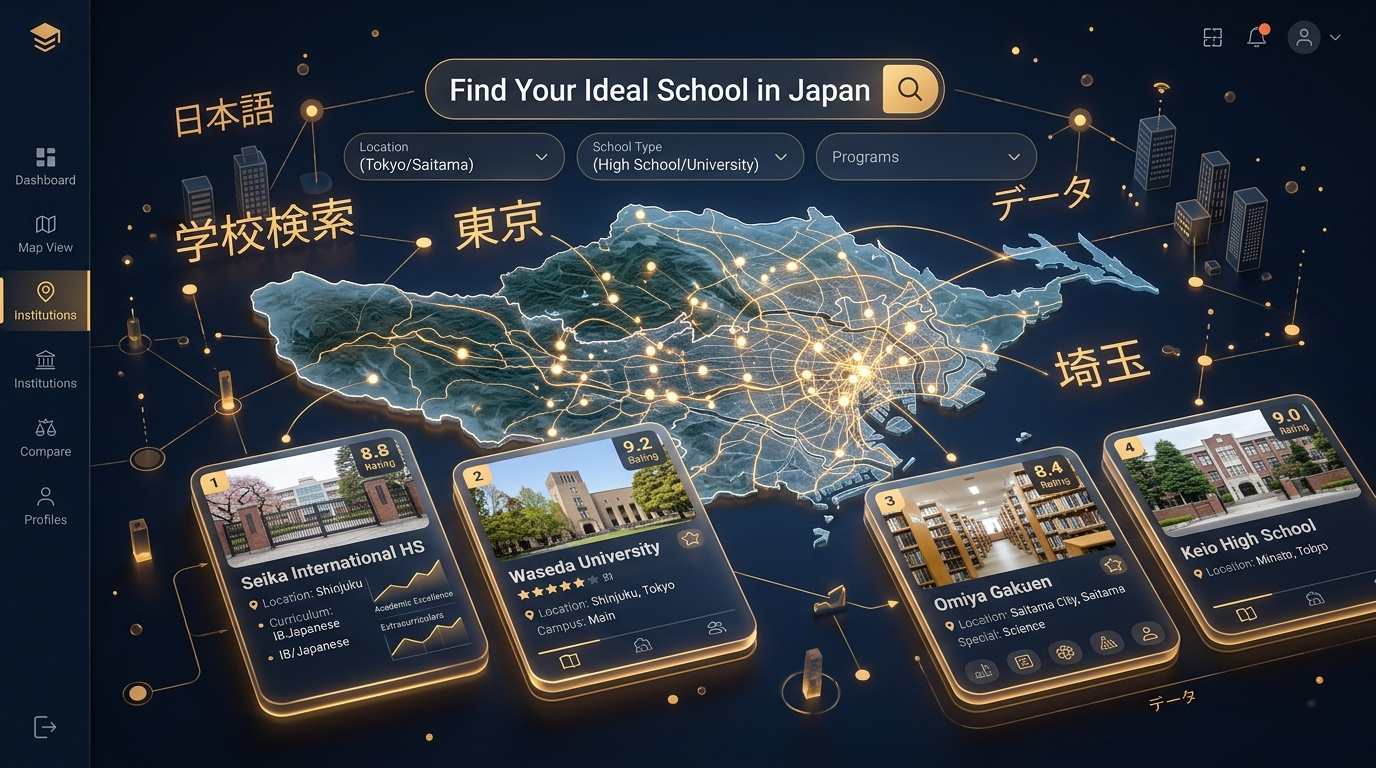
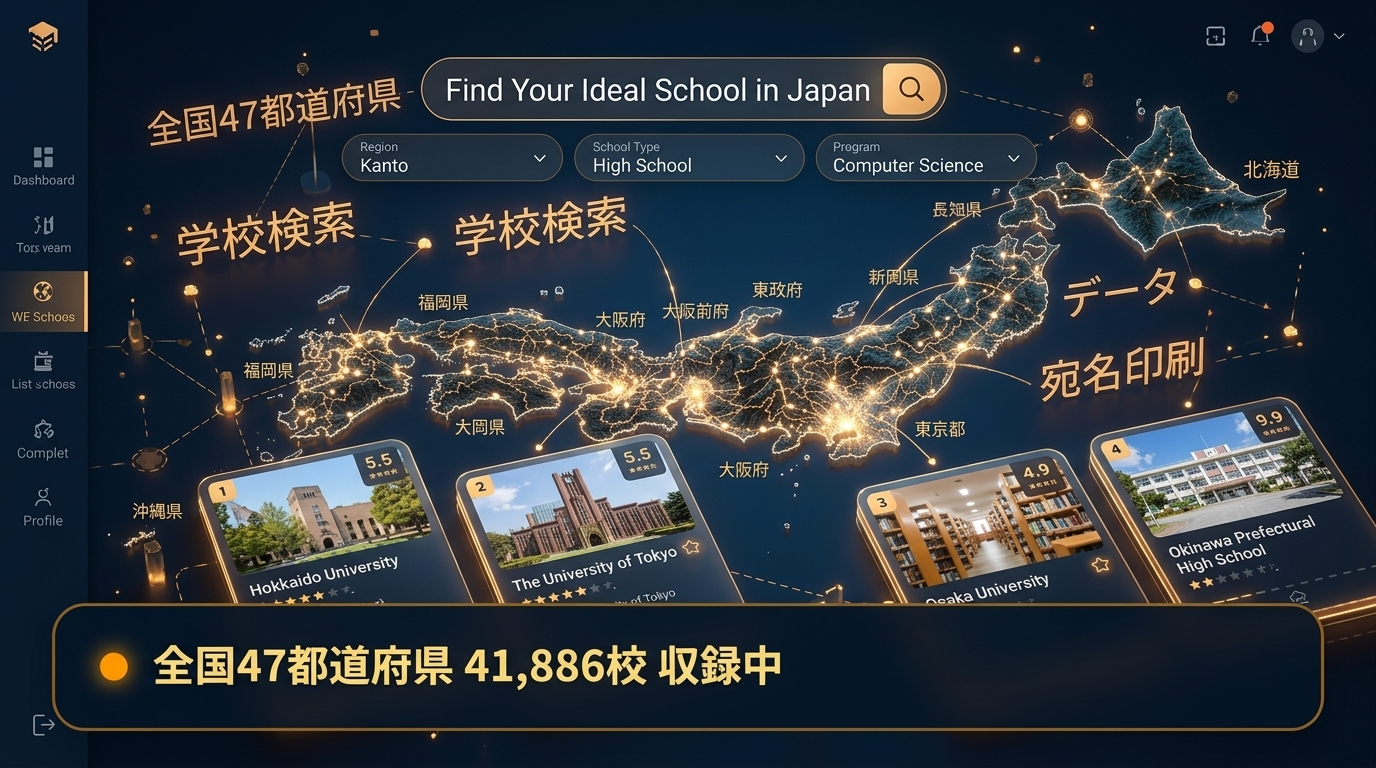
feat: Refine prefecture card design and update SCENE 04 illustration to nationwide map visual (#275)

diff --git a/assets/css/school-database.css b/assets/css/school-database.css
@@ -602,14 +602,15 @@ h3.region-header {
 
 .pref-card {
   background: #ffffff;
-  border: 2px solid rgba(7, 27, 54, 0.08);
+  border: 1px solid rgba(7, 27, 54, 0.1);
+  border-top: 4px solid var(--gold, #c5a059);
   border-radius: 16px;
-  padding: 22px 22px 20px;
-  box-shadow: 0 10px 30px rgba(7, 27, 54, 0.05);
+  padding: 18px 20px 20px;
+  box-shadow: 0 4px 20px rgba(7, 27, 54, 0.06);
   display: flex;
   flex-direction: column;
   box-sizing: border-box;
-  transition: all 0.3s ease;
+  transition: transform 0.25s ease, box-shadow 0.25s ease, border-color 0.25s ease, background-color 0.25s ease;
   position: relative;
   overflow: hidden;
   /* .pref-card はカード全体を<a>にする都道府県版で使われるため、
@@ -655,63 +656,80 @@ h3.region-header {
 }
 
 .pref-card.active-card {
-  border-color: var(--gold, #c5a059);
-  /* 下部ボタンを廃止しカード全体がリンクになったため、右下の矢印で
-     クリック可能であることを補助的に示す（hover/focusで濃く表示）。 */
+  border-color: rgba(7, 27, 54, 0.12);
+  border-top-color: var(--gold, #c5a059);
   padding-bottom: 34px;
 }
 
 .pref-card:hover {
-  transform: translateY(-3px);
-  box-shadow: 0 16px 40px rgba(7, 27, 54, 0.1);
+  transform: translateY(-4px);
+  box-shadow: 0 16px 36px rgba(7, 27, 54, 0.12), 0 0 0 1px rgba(197, 160, 89, 0.3);
   border-color: var(--gold, #c5a059);
-  background: #fffdf7;
+  background: #ffffff;
 }
 
 .pref-card:focus-within {
-  transform: translateY(-3px);
-  box-shadow: 0 16px 40px rgba(7, 27, 54, 0.1);
+  transform: translateY(-4px);
+  box-shadow: 0 16px 36px rgba(7, 27, 54, 0.12), 0 0 0 1px rgba(197, 160, 89, 0.3);
   border-color: var(--gold, #c5a059);
-  background: #fffdf7;
+  background: #ffffff;
 }
 
 /* カード全体がリンクの場合のキーボードフォーカス表示 */
 .pref-card:focus-visible {
   outline: 3px solid var(--gold, #c5a059);
   outline-offset: 3px;
-  transform: translateY(-3px);
-  box-shadow: 0 16px 40px rgba(7, 27, 54, 0.1);
+  transform: translateY(-4px);
+  box-shadow: 0 16px 36px rgba(7, 27, 54, 0.12);
   border-color: var(--gold, #c5a059);
 }
 
 .pref-card.active-card::after {
   content: "→";
   position: absolute;
-  right: 18px;
+  right: 16px;
   bottom: 12px;
-  font-size: 18px;
+  font-size: 15px;
   font-weight: 700;
-  color: var(--gold, #c5a059);
-  opacity: 0.55;
-  transition: opacity 0.2s ease, transform 0.2s ease;
+  color: var(--navy, #0c1b33);
+  background: #f1f5f9;
+  width: 26px;
+  height: 26px;
+  border-radius: 50%;
+  display: flex;
+  align-items: center;
+  justify-content: center;
+  border: 1px solid rgba(12, 27, 51, 0.1);
+  opacity: 0.75;
+  transition: opacity 0.2s ease, transform 0.2s ease, background-color 0.2s ease, color 0.2s ease;
 }
 
 .pref-card.active-card:hover::after,
 .pref-card.active-card:focus-visible::after,
 .pref-card.active-card:focus-within::after {
   opacity: 1;
-  transform: translateX(3px);
+  background: var(--gold, #c5a059);
+  color: #ffffff;
+  border-color: var(--gold, #c5a059);
+  transform: translateX(2px);
 }
 
 .pref-card-header {
   display: flex;
   justify-content: flex-end;
   align-items: center;
-  /* 「NEW」バッジ削除により年度表示のみになったため、下マージンを
-     縮小する（.pref-card:has(.population-summary) のflex gapで
-     カード内の縦間隔は別途確保されるため、ここでの重複マージンを
-     抑える）。 */
-  margin-bottom: 2px;
+  margin-bottom: 6px;
+}
+
+.pref-edition-badge {
+  font-size: 0.74rem;
+  font-weight: 600;
+  color: #475569;
+  background: #f1f5f9;
+  border: 1px solid #cbd5e1;
+  padding: 2px 9px;
+  border-radius: 12px;
+  letter-spacing: 0.02em;
 }
 
 .pref-badge {
@@ -724,64 +742,87 @@ h3.region-header {
 }
 
 .pref-card h2 {
-  font-size: 1.4rem;
+  font-size: 1.45rem;
+  font-weight: 700;
   color: var(--navy, #0c1b33);
-  margin: 0 0 6px;
+  margin: 0;
+  letter-spacing: 0.02em;
 }
 
 .education-profile-summary {
-  display: grid;
+  display: flex;
+  flex-direction: column;
   gap: 3px;
-  margin: 0 0 8px;
-  padding: 8px 10px;
-  border: 1px solid rgba(12, 27, 51, 0.14);
-  border-radius: 8px;
-  background: #f4f6fa;
-  line-height: 1.3;
+  margin: 0 0 10px;
+  padding: 9px 12px;
+  border: 1px solid rgba(12, 27, 51, 0.1);
+  border-left: 4px solid var(--gold, #c5a059);
+  border-radius: 10px;
+  background: linear-gradient(135deg, #f0f4f9 0%, #e6eff8 100%);
+  line-height: 1.35;
+  box-shadow: 0 2px 6px rgba(7, 27, 54, 0.02);
 }
 
 .education-profile-metric-label {
-  font-size: 0.72rem;
-  color: #5d6675;
+  font-size: 0.74rem;
+  font-weight: 600;
+  color: #334155;
   white-space: normal;
   overflow-wrap: break-word;
 }
 
 .education-profile-value {
-  font-size: 1.15rem;
+  font-size: 1.25rem;
+  font-weight: 700;
   color: var(--navy, #0c1b33);
   white-space: nowrap;
 }
 
 .education-profile-value span {
   margin-left: 2px;
-  font-size: 0.74rem;
-  font-weight: 500;
+  font-size: 0.76rem;
+  font-weight: 600;
 }
 
 .education-profile-average-value {
-  font-size: 0.64rem;
-  color: #8a8f98;
+  font-size: 0.68rem;
+  font-weight: 600;
+  color: #475569;
+  background: rgba(255, 255, 255, 0.85);
+  padding: 2px 8px;
+  border-radius: 10px;
+  border: 1px solid rgba(12, 27, 51, 0.08);
   white-space: nowrap;
+  display: inline-block;
+  margin-top: 1px;
 }
 
 .pref-profile-source {
-  margin: 3px 0 0;
+  margin: 4px 0 0;
   font-size: 0.62rem;
-  color: #5d6675;
+  color: #64748b;
   line-height: 1.3;
 }
 
-/* 都道府県地域マーク（シルエット）。都道府県章・公式シンボルマークでは
-   なく、国土数値情報（行政区域データ）を加工したBan.Tai独自のマーク。
-   47都道府県で同一の色・スタイルにするため、SVGの形状はmask-imageとして
-   使い、色そのものはCSSのbackground-colorで統一する（過度な円形背景・
-   影・金枠は付けない）。 */
+/* 都道府県地域マーク（シルエット）。 */
 .pref-card-title-row {
   display: flex;
   align-items: center;
-  gap: 8px;
-  margin: 0 0 4px;
+  gap: 10px;
+  margin: 0 0 8px;
+}
+
+.pref-silhouette-frame {
+  display: flex;
+  align-items: center;
+  justify-content: center;
+  width: 36px;
+  height: 36px;
+  border-radius: 10px;
+  background: linear-gradient(135deg, #fffdfa 0%, #f5efe1 100%);
+  border: 1px solid rgba(197, 160, 89, 0.4);
+  box-shadow: 0 2px 6px rgba(197, 160, 89, 0.18);
+  flex-shrink: 0;
 }
 
 .pref-card-title-row h2 {
@@ -790,8 +831,8 @@ h3.region-header {
 
 .pref-silhouette {
   display: inline-block;
-  width: 32px;
-  height: 32px;
+  width: 24px;
+  height: 24px;
   flex-shrink: 0;
   background-color: var(--gold, #c5a059);
   -webkit-mask-image: var(--silhouette-url);
@@ -805,7 +846,7 @@ h3.region-header {
 }
 
 .pref-card:hover .pref-silhouette {
-  background-color: #d6b876;
+  background-color: #b38d45;
 }
 
 @media (max-width: 900px) {

diff --git a/assets/js/school-database/prefecture-card-renderer.js b/assets/js/school-database/prefecture-card-renderer.js
@@ -155,9 +155,7 @@
     }
 
     const header = createElement("div", "pref-card-header");
-    const edition = createElement("span", "", prefecture.edition);
-    edition.style.fontSize = "0.8rem";
-    edition.style.color = "#718096";
+    const edition = createElement("span", "pref-edition-badge", prefecture.edition);
     header.append(edition);
     card.append(header);
 
@@ -165,10 +163,12 @@
     const silhouette = prefecture.silhouette;
     if (silhouette && silhouette.available === true) {
       const titleRow = createElement("div", "pref-card-title-row");
+      const silhouetteFrame = createElement("span", "pref-silhouette-frame");
       const silhouetteEl = createElement("span", "pref-silhouette");
       silhouetteEl.setAttribute("aria-hidden", "true");
       silhouetteEl.style.setProperty("--silhouette-url", `url("${silhouette.src}")`);
-      titleRow.append(silhouetteEl, nameHeading);
+      silhouetteFrame.append(silhouetteEl);
+      titleRow.append(silhouetteFrame, nameHeading);
       card.append(titleRow);
     } else {
       // 都道府県地域マークが未生成の場合（本来は47件すべて生成済み）は、

diff --git a/index.html b/index.html
@@ -400,7 +400,7 @@
             <div class="scene-body">
               <span class="scene-tag-badge">SCENE 04 / 情報・宛名</span>
               <h3>全国学校データベースで宛名作成</h3>
-              <p>全国・東京都3,500+校の公立・私立学校を一発検索。宛名印刷やCSV出力に対応。</p>
+              <p>全国47都道府県・41,000+校の公立・私立学校を一発検索。宛名印刷やCSV出力に対応。</p>
               <a href="/tools/school-database/" class="scene-link">
                 <span>学校データベースを見る</span>
                 <span class="arrow">→</span>
